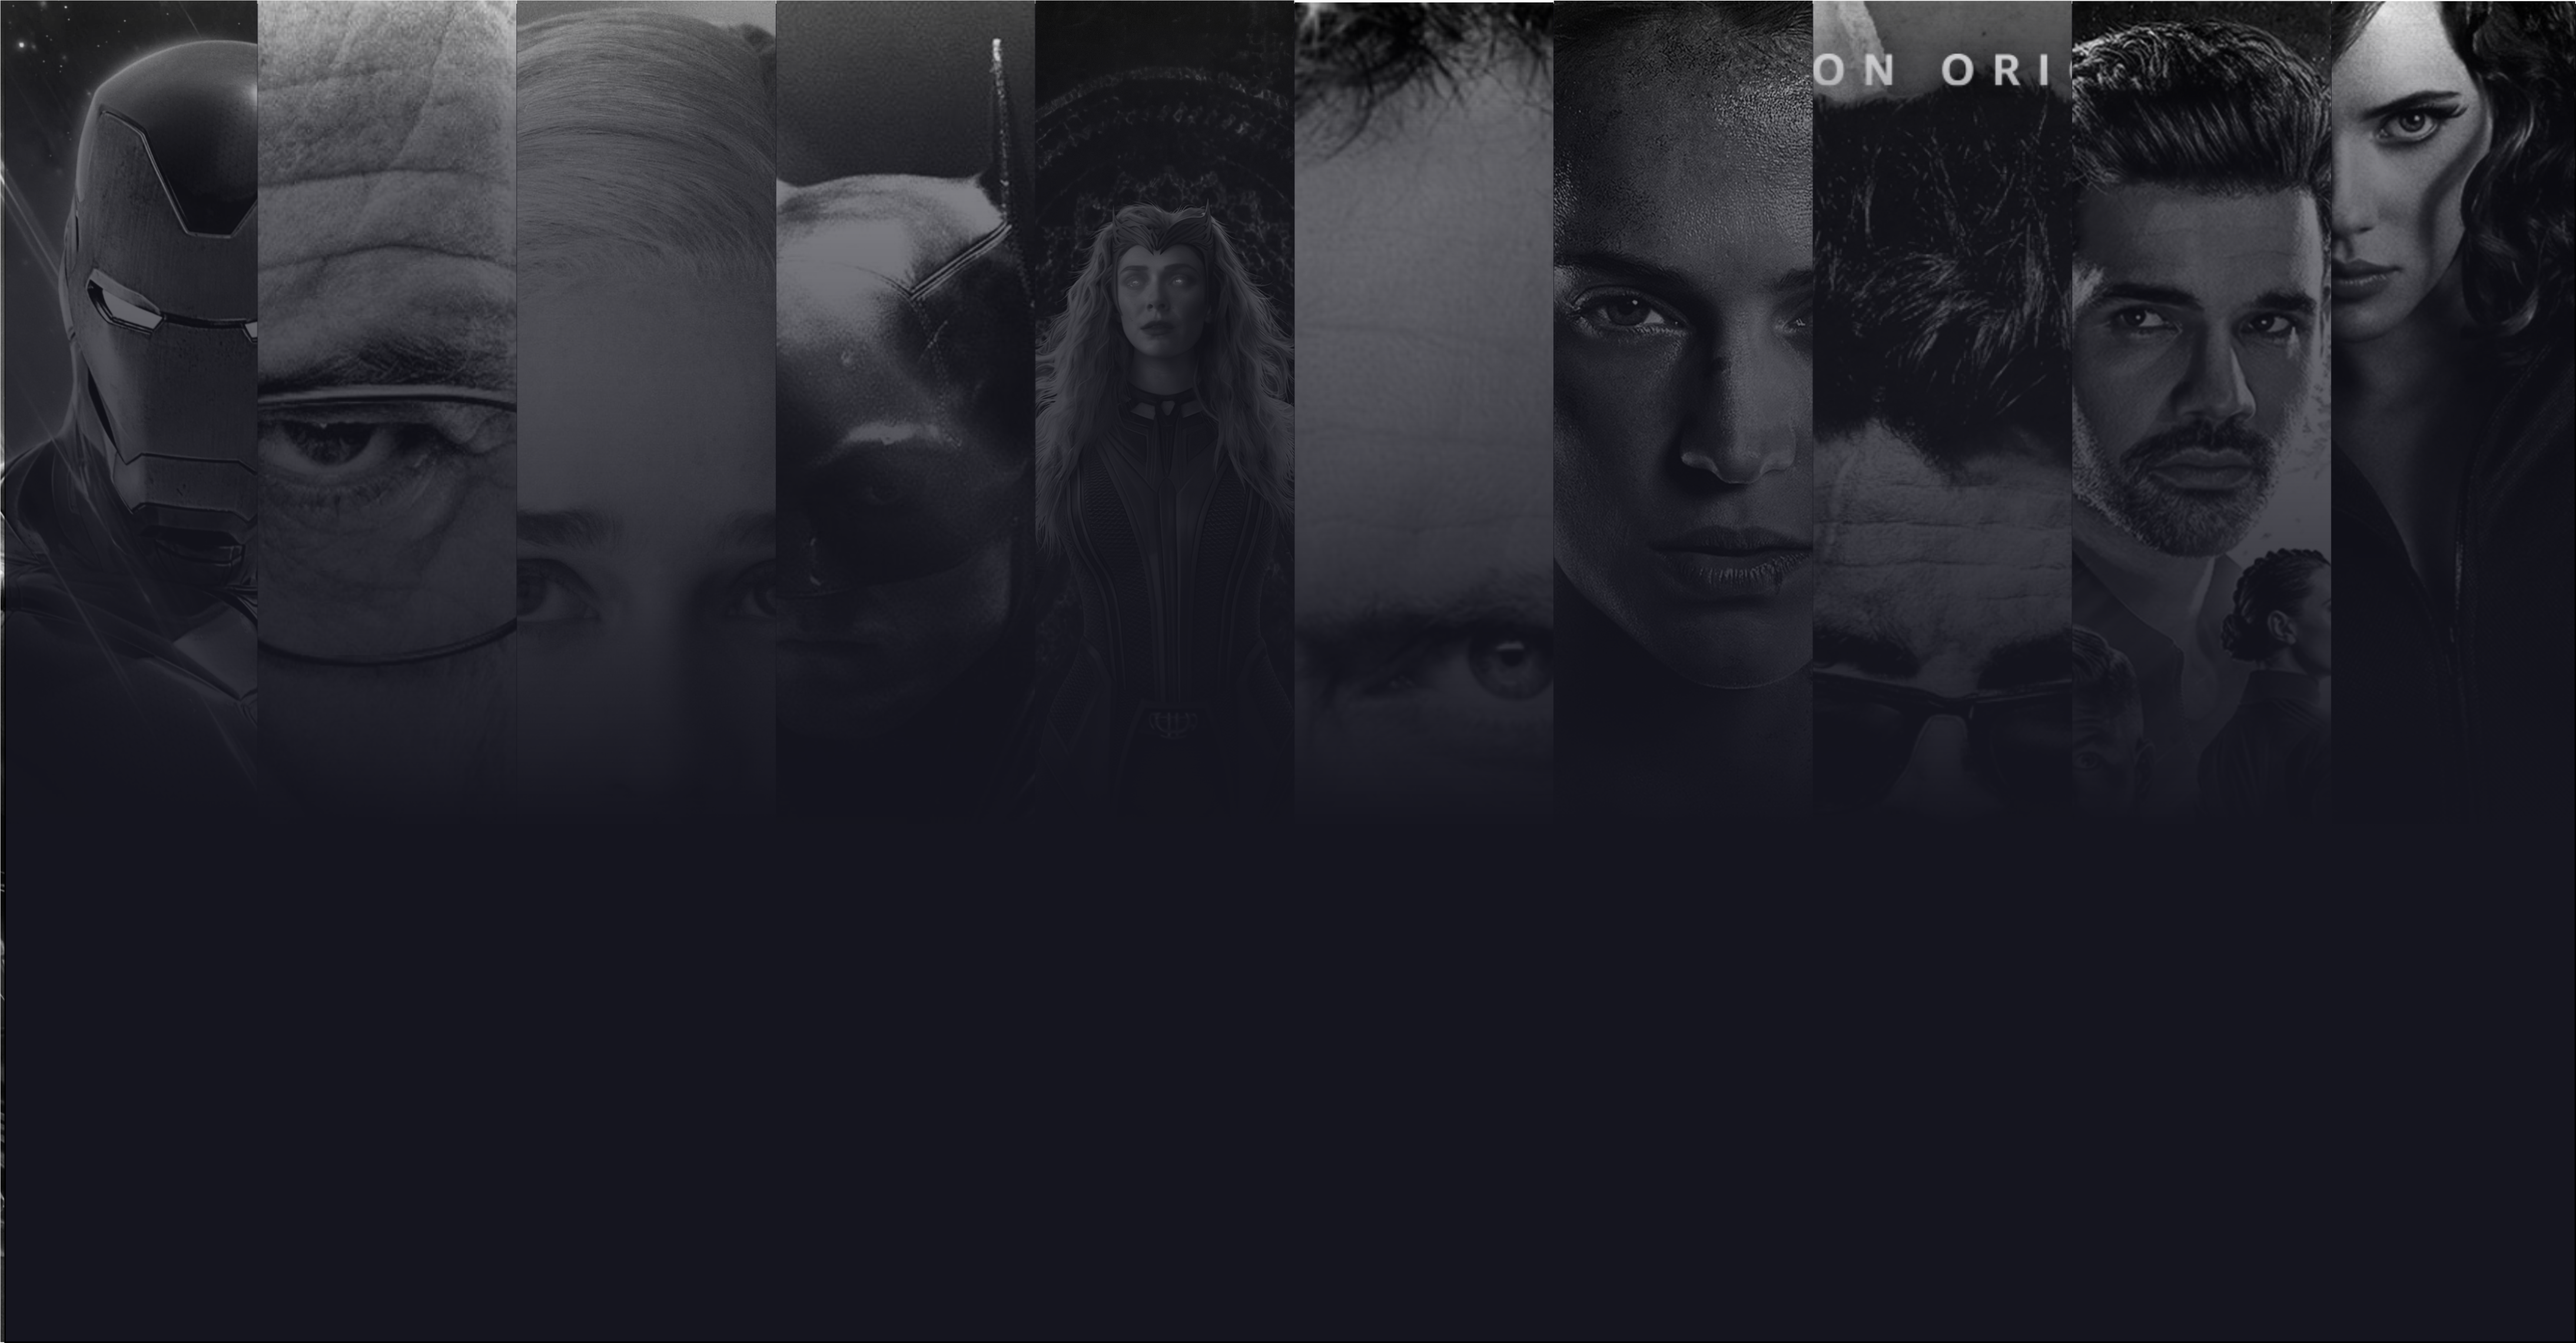
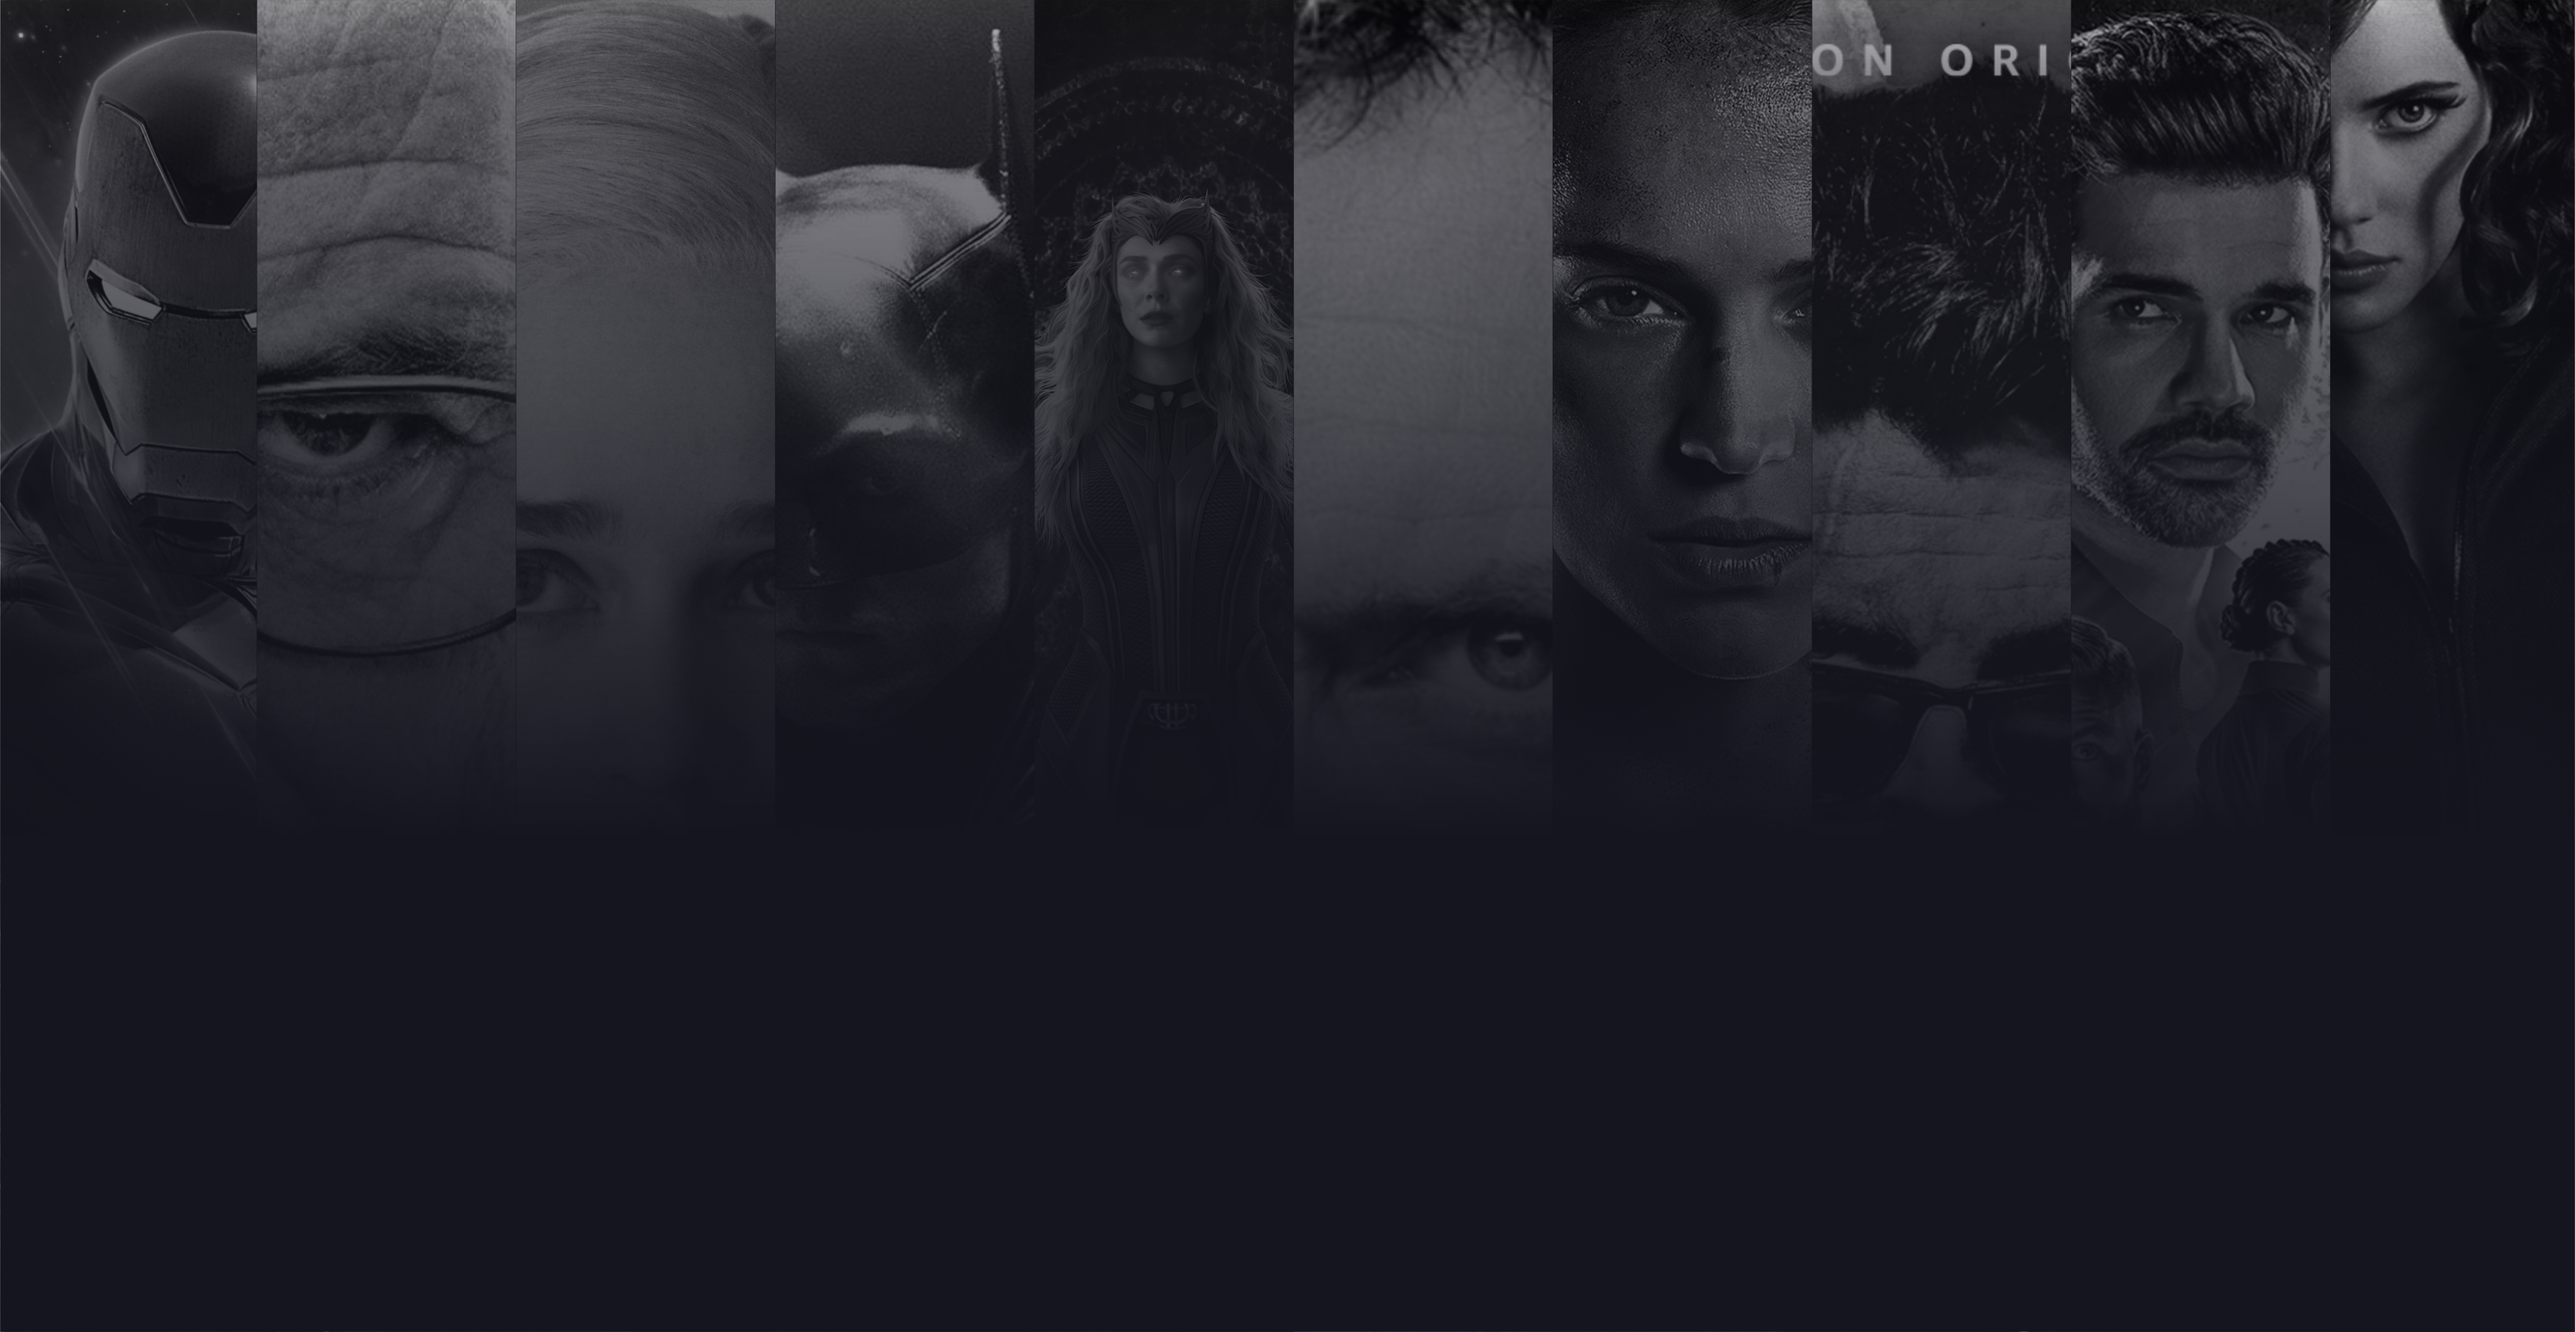
:wrench: <fix>(Homepage) Background image fixed and added header and menu elements

diff --git a/src/components/MainHeader.jsx b/src/components/MainHeader.jsx
@@ -1,0 +1,26 @@
+import React from 'react';
+import {Link} from 'react-router-dom';
+import Logo from '../images/svg/logotipo.svg';
+import LoginIcon from '../images/svg/login.svg';
+import {HeaderStyled, MenuStyled, MenuLoginStyled} from '../styles/header';
+
+function MainHeader() {
+  return (
+    <HeaderStyled>
+      <img src={Logo} alt="Logotipo Maratonei" />
+      <MenuStyled>
+        <Link to=""><span>INICIO</span></Link>
+        <Link to=""><span>TV SERIES</span></Link>
+        <Link to=""><span>FILMES</span></Link>
+        <Link to=""><span>STREAMINGS</span></Link>
+        <Link to=""><span>BIBLIOTECA</span></Link>
+        <MenuLoginStyled>
+          <Link to=""><span>ENTRAR</span></Link>
+          <img src={LoginIcon} alt="Icone de Login" />
+        </MenuLoginStyled>
+      </MenuStyled>
+    </HeaderStyled>
+  );
+}
+
+export default MainHeader;

diff --git a/src/pages/Homepage.jsx b/src/pages/Homepage.jsx
@@ -1,11 +1,12 @@
 import React from 'react';
-import {HomepageSection} from '../styles/index';
+import MainHeader from '../components/MainHeader';
+import {HomepageStyled} from '../styles/index';
 
 function Homepage() {
   return (
-    <HomepageSection>
-      <h1>Oi</h1>
-    </HomepageSection>
+    <HomepageStyled>
+      <MainHeader />
+    </HomepageStyled>
   );
 }
 

diff --git a/src/styles/header.js b/src/styles/header.js
@@ -1,0 +1,18 @@
+import styled from 'styled-components';
+
+export const HeaderStyled = styled.header`
+  display: flex;
+  justify-content: space-between;
+
+  /* img:first-of-type {
+    width: 1rem;
+  } */
+`;
+
+export const MenuStyled = styled.nav`
+  display: flex;
+`;
+
+export const MenuLoginStyled = styled.div`
+  display: flex;
+`;

diff --git a/src/App.js b/src/App.js
@@ -5,12 +5,7 @@ import Homepage from './pages/Homepage';
 function App() {
   return (
     <Routes>
-      <Route path='/' element={(
-        <>
-          {/* <Header /> */}
-          <Homepage />
-        </>
-      )} />
+      <Route path='/' element={<Homepage />} />
     </Routes>
   );
 }

diff --git a/src/styles/index.js b/src/styles/index.js
@@ -1,7 +1,7 @@
 import styled from 'styled-components';
 import backgroundHp from '../images/background-homepage.webp';
 
-export const HomepageSection = styled.section`
+export const HomepageStyled = styled.section`
   background: url(${backgroundHp});
   background-size: cover;
   display: flex;
